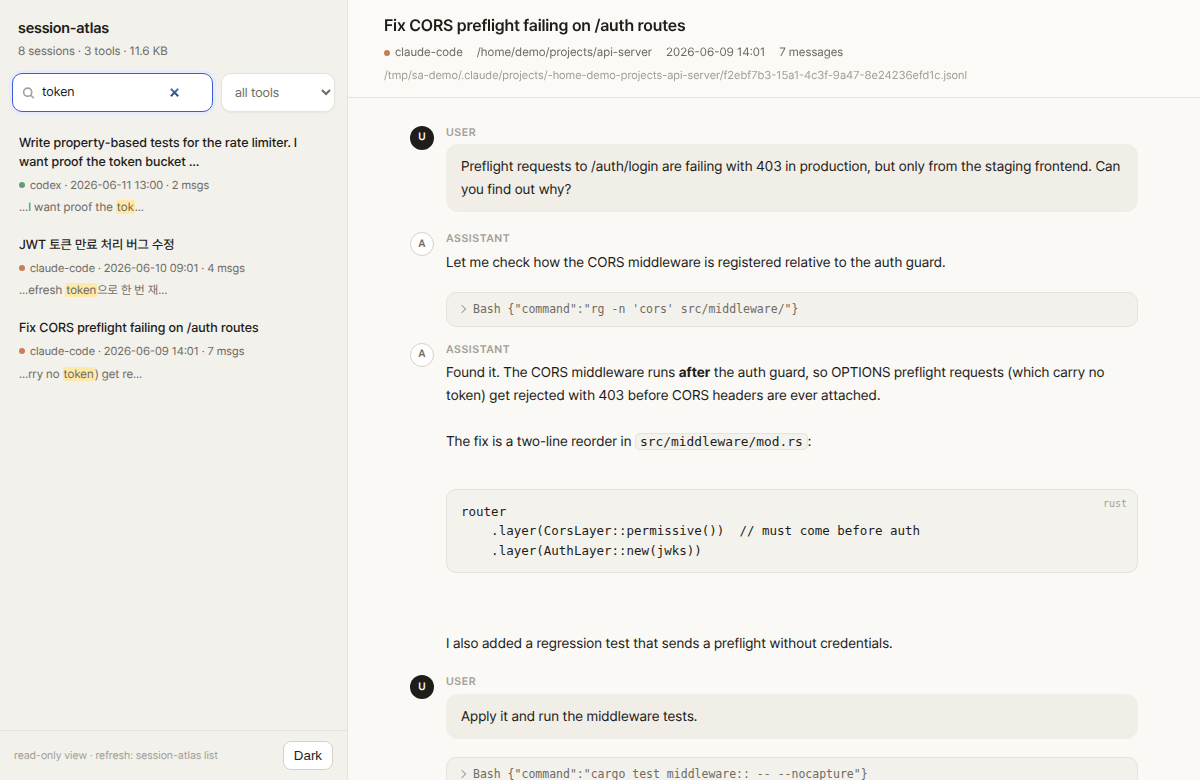
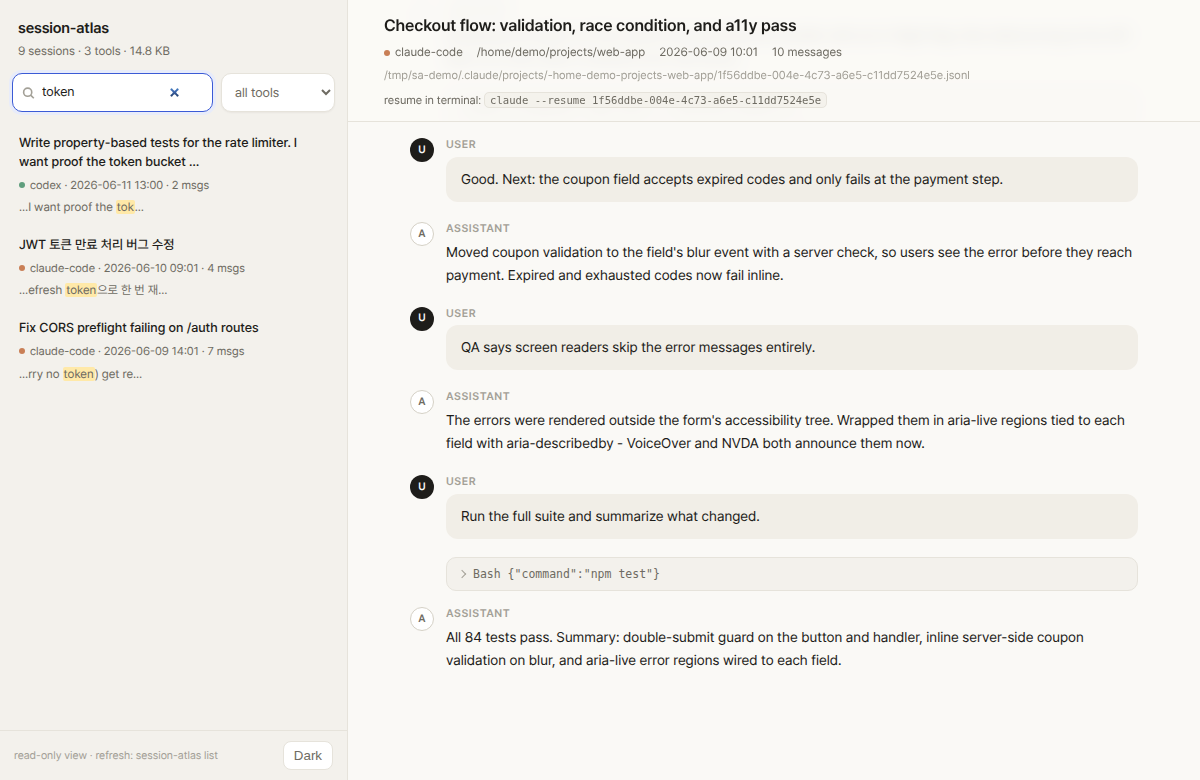
v0.3.0: know what a session is about before opening it
- list previews: every session row in the web sidebar shows the tail of
  the conversation (last assistant message), email-client style. Pulled
  from the messages table at query time - no schema change, no reindex.
- show --outline: a deterministic digest of a session - every user turn
  in order plus the message it ended with. A session's questions are its
  table of contents; no LLM involved.
- web outline: sessions with 3+ user turns get a collapsible outline
  whose entries scroll to their turn in the transcript.
- harness noise (slash-command echoes, interruption markers) filtered
  from outlines.
- refreshed README screenshots from the synthetic demo store.

diff --git a/src/webui.html b/src/webui.html
@@ -152,6 +152,16 @@
   .dot.codex { background: var(--dot-codex); }
   .dot.gemini { background: var(--dot-gemini); }
   .item .snip { color: var(--ink-2); font-size: 12px; margin-top: 4px; line-height: 1.5; }
+  .item .preview {
+    display: -webkit-box;
+    -webkit-line-clamp: 2;
+    -webkit-box-orient: vertical;
+    overflow: hidden;
+    color: var(--ink-3);
+    font-size: 12px;
+    margin-top: 3px;
+    line-height: 1.45;
+  }
   mark { background: var(--mark); color: inherit; padding: 0 1px; border-radius: 2px; }
   .empty { padding: 22px 14px; color: var(--ink-2); font-size: 13px; }
 
@@ -215,6 +225,31 @@
   .doc-head .resume code:hover { border-color: var(--accent); color: var(--ink); }
 
   .doc { max-width: 800px; margin: 0 auto; padding: 26px 36px 90px; }
+
+  .outline {
+    background: var(--bg-sunken);
+    border: 1px solid var(--line);
+    border-radius: 12px;
+    margin-bottom: 22px;
+  }
+  .outline summary {
+    list-style: none;
+    cursor: pointer;
+    padding: 10px 16px;
+    font-size: 12px;
+    font-weight: 600;
+    letter-spacing: .04em;
+    text-transform: uppercase;
+    color: var(--ink-2);
+  }
+  .outline ol {
+    margin: 0;
+    padding: 0 16px 12px 36px;
+    font-size: 13px;
+    color: var(--ink-2);
+  }
+  .outline li { margin: 4px 0; cursor: pointer; }
+  .outline li:hover { color: var(--accent); }
 
   .msg { display: flex; gap: 12px; margin-bottom: 18px; }
   .avatar {
@@ -480,6 +515,8 @@ function renderItems(rows, isSearch) {
       const snip = el("div", "snip");
       snip.appendChild(snippetNodes(r.snippet));
       item.appendChild(snip);
+    } else if (r.preview) {
+      item.appendChild(el("div", "preview", r.preview.replace(/\s+/g, " ")));
     }
     item.onclick = () => { openSession(r.id); setActive(item); };
     list.appendChild(item);
@@ -526,7 +563,29 @@ async function openSession(id) {
   }
 
   const doc = el("div", "doc");
-  for (const m of s.messages) {
+
+  // Outline: the user turns are the session's table of contents.
+  // Each entry jumps to its message in the transcript.
+  const userTurns = [];
+  s.messages.forEach((m, i) => {
+    const t = m.text.trimStart();
+    if (m.role === "user" && !t.startsWith("<") && !t.startsWith("[Request interrupted")) userTurns.push(i);
+  });
+  const anchors = {};
+  if (userTurns.length >= 3) {
+    const det = el("details", "outline");
+    det.appendChild(el("summary", "", `Outline · ${userTurns.length} turns`));
+    const ol = el("ol");
+    for (const i of userTurns) {
+      const li = el("li", "", s.messages[i].text.replace(/\s+/g, " ").slice(0, 110));
+      li.onclick = () => anchors[i] && anchors[i].scrollIntoView({ behavior: "smooth", block: "start" });
+      ol.appendChild(li);
+    }
+    det.appendChild(ol);
+    doc.appendChild(det);
+  }
+
+  for (const [mi, m] of s.messages.entries()) {
     if (m.role === "tool") {
       const row = el("div", "toolrow");
       const det = el("details");
@@ -535,6 +594,7 @@ async function openSession(id) {
       det.append(sum, body);
       row.appendChild(det);
       doc.appendChild(row);
+      anchors[mi] = row;
       continue;
     }
     const wrap = el("div", "msg " + m.role);
@@ -547,6 +607,7 @@ async function openSession(id) {
     content.appendChild(body);
     wrap.append(av, content);
     doc.appendChild(wrap);
+    anchors[mi] = wrap;
   }
   $("main").replaceChildren(head, doc);
   $("main").scrollTop = 0;

diff --git a/src/commands.rs b/src/commands.rs
@@ -127,7 +127,7 @@ pub fn search(query: &str, limit: usize, tool: Option<&str>, project: Option<&st
     Ok(())
 }
 
-pub fn show(id: &str, full: bool, json: bool) -> Result<()> {
+pub fn show(id: &str, full: bool, json: bool, outline: bool) -> Result<()> {
     let mut conn = index::open()?;
     index::sync(&mut conn, None)?;
     let row = resolve_one(&conn, id)?;
@@ -137,6 +137,36 @@ pub fn show(id: &str, full: bool, json: bool) -> Result<()> {
 
     if json {
         println!("{}", serde_json::to_string_pretty(&session)?);
+        return Ok(());
+    }
+
+    if outline {
+        // A session's user turns are its table of contents; the last
+        // assistant message is where it ended. No LLM required.
+        println!("{}", bold(&session.title));
+        println!(
+            "{}",
+            dim(&format!(
+                "{} | {} | {} | {} messages",
+                session.tool,
+                project_label(&session.project),
+                fmt_date(session.started),
+                session.messages.len()
+            ))
+        );
+        println!();
+        let mut n = 0;
+        for m in &session.messages {
+            if m.role == Role::User && !is_harness_noise(&m.text) {
+                n += 1;
+                println!("{:>3}. {}", n, truncate(&m.text, 110));
+            }
+        }
+        if let Some(last) = session.messages.iter().rev().find(|m| m.role == Role::Assistant) {
+            println!();
+            println!("{}", bold("ended with:"));
+            println!("{}", truncate(&last.text, 400));
+        }
         return Ok(());
     }
 
@@ -173,6 +203,12 @@ pub fn show(id: &str, full: bool, json: bool) -> Result<()> {
         println!();
     }
     Ok(())
+}
+
+/// Slash-command echoes and interruption markers are not conversation.
+fn is_harness_noise(text: &str) -> bool {
+    let t = text.trim_start();
+    t.starts_with('<') || t.starts_with("[Request interrupted")
 }
 
 /// Resolve an id prefix to exactly one indexed session.

diff --git a/src/index.rs b/src/index.rs
@@ -202,7 +202,16 @@ pub struct SessionRow {
     pub started: Option<String>,
     pub msg_count: i64,
     pub kind: String,
+    /// Tail of the conversation (last assistant message), so a list can show
+    /// how the session ended without opening it.
+    pub preview: Option<String>,
 }
+
+/// Correlated subquery for the preview column; messages.id preserves
+/// insertion order, which is message order.
+const PREVIEW_SQL: &str = "(SELECT substr(m2.text, 1, 280) FROM messages m2
+    WHERE m2.session_id = f.session_id AND m2.role = 'assistant'
+    ORDER BY m2.id DESC LIMIT 1)";
 
 pub fn recent(
     conn: &Connection,
@@ -211,8 +220,9 @@ pub fn recent(
     project: Option<&str>,
     include_subagents: bool,
 ) -> Result<Vec<SessionRow>> {
-    let mut sql = String::from(
-        "SELECT session_id, tool, path, project, title, started, msg_count, kind FROM files WHERE 1=1",
+    let mut sql = format!(
+        "SELECT session_id, tool, path, project, title, started, msg_count, kind, {PREVIEW_SQL}
+         FROM files f WHERE 1=1",
     );
     let mut args: Vec<String> = Vec::new();
     if !include_subagents {
@@ -239,6 +249,7 @@ pub fn recent(
             started: r.get(5)?,
             msg_count: r.get(6)?,
             kind: r.get(7)?,
+            preview: r.get(8)?,
         })
     })?;
     Ok(rows.collect::<rusqlite::Result<Vec<_>>>()?)
@@ -299,6 +310,7 @@ pub fn search(
                 started: r.get(5)?,
                 msg_count: r.get(6)?,
                 kind: r.get(7)?,
+                preview: None,
             },
             role: r.get(8)?,
             snippet: r.get(9)?,
@@ -323,6 +335,7 @@ pub fn resolve(conn: &Connection, id_prefix: &str) -> Result<Vec<SessionRow>> {
             started: r.get(5)?,
             msg_count: r.get(6)?,
             kind: r.get(7)?,
+            preview: None,
         })
     })?;
     Ok(rows.collect::<rusqlite::Result<Vec<_>>>()?)

diff --git a/scripts/demo_data.py b/scripts/demo_data.py
@@ -120,6 +120,21 @@ claude_session(
      ("assistant", "With 8 workers the bench run drops from 212 to 31 minutes. I kept per-partition transactions so a failed partition retries alone without rolling back the others.")],
     7, 2)
 
+claude_session(
+    "-home-demo-projects-web-app", "/home/demo/projects/web-app",
+    "Checkout flow: validation, race condition, and a11y pass",
+    [("user", "The checkout form lets users submit twice if they double-click. Fix that first."),
+     ("assistant", "Disabling the button on first submit and guarding the handler with an in-flight flag. Also debouncing at the API layer so a retry after a network error still works."),
+     ("Bash", "npm test -- checkout.submit"),
+     ("user", "Good. Next: the coupon field accepts expired codes and only fails at the payment step."),
+     ("assistant", "Moved coupon validation to the field's blur event with a server check, so users see the error before they reach payment. Expired and exhausted codes now fail inline."),
+     ("user", "QA says screen readers skip the error messages entirely."),
+     ("assistant", "The errors were rendered outside the form's accessibility tree. Wrapped them in aria-live regions tied to each field with aria-describedby - VoiceOver and NVDA both announce them now."),
+     ("user", "Run the full suite and summarize what changed."),
+     ("Bash", "npm test"),
+     ("assistant", "All 84 tests pass. Summary: double-submit guard on the button and handler, inline server-side coupon validation on blur, and aria-live error regions wired to each field.")],
+    9, 10)
+
 codex_session(
     "/home/demo/projects/web-app",
     [("user", "Migrate the dashboard route to React Server Components. Keep the chart widgets client-side."),

diff --git a/src/main.rs b/src/main.rs
@@ -69,6 +69,9 @@ enum Command {
         /// Emit the parsed session as JSON
         #[arg(long)]
         json: bool,
+        /// Show a digest instead: every user turn plus how the session ended
+        #[arg(long)]
+        outline: bool,
     },
     /// Reopen a session in its original tool (claude --resume / codex resume)
     Resume {
@@ -102,7 +105,7 @@ fn main() {
             commands::search(&query, limit, tool.as_deref(), project.as_deref())
         }
         Command::Web { port, no_open } => web::serve(port, no_open),
-        Command::Show { id, full, json } => commands::show(&id, full, json),
+        Command::Show { id, full, json, outline } => commands::show(&id, full, json, outline),
         Command::Resume { id, print } => commands::resume_cmd(&id, print),
         Command::Brief { id, max_chars, tools } => commands::brief(&id, max_chars, tools),
     };

diff --git a/src/web.rs b/src/web.rs
@@ -125,6 +125,7 @@ fn row_json(r: &index::SessionRow) -> serde_json::Value {
         "started": r.started,
         "msgs": r.msg_count,
         "kind": r.kind,
+        "preview": r.preview,
     })
 }
 

diff --git a/README.md b/README.md
@@ -61,10 +61,10 @@ GB). After that, updates are incremental and take seconds.
 | `scan` | Discover session stores on this machine: which tools, where, how many, how big. Pure filesystem walk, instant. |
 | `list` | Recent sessions across all tools in one timeline. `--tool codex`, `--project api`, `-n 50`, `--all` (include subagent transcripts). |
 | `search <query>` | Full-text search over every message of every tool. Substring matching, so partial identifiers and CJK text (Korean, Japanese, Chinese) work without any language setup. Minimum 3 characters. |
-| `show <id>` | One session as a readable transcript. The id prefix from `list`/`search` output is enough. `--full` expands tool calls, `--json` emits the parsed session. |
+| `show <id>` | One session as a readable transcript. The id prefix from `list`/`search` output is enough. `--full` expands tool calls, `--json` emits the parsed session, `--outline` prints a digest instead: every question you asked plus how the session ended &mdash; the fastest way to recall what a long session was about. |
 | `resume <id>` | Reopen the session in its original tool: runs `claude --resume <uuid>` or `codex resume <uuid>` in the right project directory. `--print` to just show the command. For a subagent transcript it resumes the parent session. |
 | `brief <id>` | Emit the session as a markdown briefing (head and tail of long sessions, middle omitted) &mdash; paste it into any tool to carry the context over, including across tools. `--max-chars`, `--tools`. |
-| `web` | Local web viewer on `127.0.0.1:7575` &mdash; recent sessions grouped by day, live search with highlighted snippets, transcripts with rendered code blocks and collapsed tool calls, a copyable resume command per session, light and dark themes. Never leaves localhost. |
+| `web` | Local web viewer on `127.0.0.1:7575` &mdash; recent sessions grouped by day with a preview of how each one ended, live search with highlighted snippets, transcripts with rendered code blocks, a clickable outline of long sessions, collapsed tool calls, a copyable resume command, light and dark themes. Never leaves localhost. |
 
 ```console
 $ session-atlas search "CORS preflight"